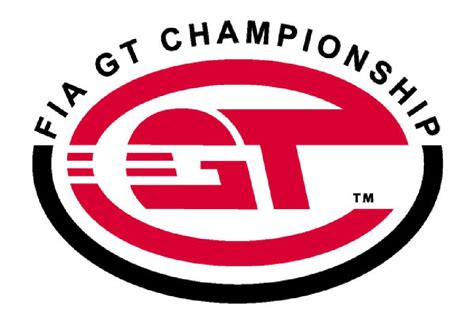
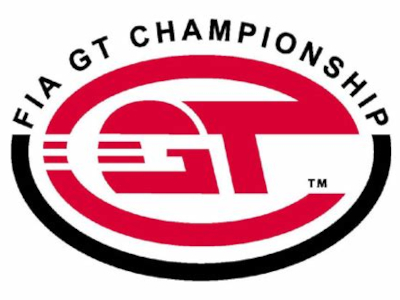
more stuff to do

diff --git a/gtr2career/html/fia_ngt_championship_round_6.html b/gtr2career/html/fia_ngt_championship_round_6.html
@@ -65,17 +65,17 @@
         <div class="catalog-logo-row">
           <img
             class="catalog-logo"
-            src="../img/organizer_180_motor_club.svg"
-            alt="180 Motor Club logo"
+            src="../img/fia_gt.jpeg"
+            alt="FIA GT logo"
           />
           <div>
-            <h2>180 Motor Club</h2>
+            <h2>FIA GT</h2>
             <p>Organizer</p>
           </div>
         </div>
         <h1>FIA N-GT Championship - Round 6: Spa-Francorchamps</h1>
         <p>
-          This activity is organized by 180 Motor Club. Review the current entry
+          This activity is organized by FIA GT. Review the current entry
           details, requirements, and payout before committing to it.
         </p>
       </aside>

diff --git a/gtr2career/html/fia_ngt_championship_round_5.html b/gtr2career/html/fia_ngt_championship_round_5.html
@@ -65,17 +65,17 @@
         <div class="catalog-logo-row">
           <img
             class="catalog-logo"
-            src="../img/organizer_180_motor_club.svg"
-            alt="180 Motor Club logo"
+            src="../img/fia_gt.jpeg"
+            alt="FIA GT logo"
           />
           <div>
-            <h2>180 Motor Club</h2>
+            <h2>FIA GT</h2>
             <p>Organizer</p>
           </div>
         </div>
         <h1>FIA N-GT Championship - Round 5: Donington Park</h1>
         <p>
-          This activity is organized by 180 Motor Club. Review the current entry
+          This activity is organized by FIA GT. Review the current entry
           details, requirements, and payout before committing to it.
         </p>
       </aside>

diff --git a/gtr2career/html/fia_ngt_championship_round_10.html b/gtr2career/html/fia_ngt_championship_round_10.html
@@ -65,17 +65,17 @@
         <div class="catalog-logo-row">
           <img
             class="catalog-logo"
-            src="../img/organizer_180_motor_club.svg"
-            alt="180 Motor Club logo"
+            src="../img/fia_gt.jpeg"
+            alt="FIA GT logo"
           />
           <div>
-            <h2>180 Motor Club</h2>
+            <h2>FIA GT</h2>
             <p>Organizer</p>
           </div>
         </div>
         <h1>FIA N-GT Championship - Round 10: Enna-Pergusa</h1>
         <p>
-          This activity is organized by 180 Motor Club. Review the current entry
+          This activity is organized by FIA GT. Review the current entry
           details, requirements, and payout before committing to it.
         </p>
       </aside>

diff --git a/gtr2career/html/fia_ngt_championship_round_2.html b/gtr2career/html/fia_ngt_championship_round_2.html
@@ -65,17 +65,17 @@
         <div class="catalog-logo-row">
           <img
             class="catalog-logo"
-            src="../img/organizer_180_motor_club.svg"
-            alt="180 Motor Club logo"
+            src="../img/fia_gt.jpeg"
+            alt="FIA GT logo"
           />
           <div>
-            <h2>180 Motor Club</h2>
+            <h2>FIA GT</h2>
             <p>Organizer</p>
           </div>
         </div>
         <h1>FIA N-GT Championship - Round 2: Magny-Cours</h1>
         <p>
-          This activity is organized by 180 Motor Club. Review the current entry
+          This activity is organized by FIA GT. Review the current entry
           details, requirements, and payout before committing to it.
         </p>
       </aside>

diff --git a/gtr2career/html/fia_ngt_championship_round_4.html b/gtr2career/html/fia_ngt_championship_round_4.html
@@ -65,17 +65,17 @@
         <div class="catalog-logo-row">
           <img
             class="catalog-logo"
-            src="../img/organizer_180_motor_club.svg"
-            alt="180 Motor Club logo"
+            src="../img/fia_gt.jpeg"
+            alt="FIA GT logo"
           />
           <div>
-            <h2>180 Motor Club</h2>
+            <h2>FIA GT</h2>
             <p>Organizer</p>
           </div>
         </div>
         <h1>FIA N-GT Championship - Round 4: Silverstone</h1>
         <p>
-          This activity is organized by 180 Motor Club. Review the current entry
+          This activity is organized by FIA GT. Review the current entry
           details, requirements, and payout before committing to it.
         </p>
       </aside>

diff --git a/gtr2career/html/fia_ngt_championship_round_3.html b/gtr2career/html/fia_ngt_championship_round_3.html
@@ -65,17 +65,17 @@
         <div class="catalog-logo-row">
           <img
             class="catalog-logo"
-            src="../img/organizer_180_motor_club.svg"
-            alt="180 Motor Club logo"
+            src="../img/fia_gt.jpeg"
+            alt="FIA GT logo"
           />
           <div>
-            <h2>180 Motor Club</h2>
+            <h2>FIA GT</h2>
             <p>Organizer</p>
           </div>
         </div>
         <h1>FIA N-GT Championship - Round 3: Hockenheim</h1>
         <p>
-          This activity is organized by 180 Motor Club. Review the current entry
+          This activity is organized by FIA GT. Review the current entry
           details, requirements, and payout before committing to it.
         </p>
       </aside>

diff --git a/gtr2career/html/fia_ngt_championship_round_8.html b/gtr2career/html/fia_ngt_championship_round_8.html
@@ -65,17 +65,17 @@
         <div class="catalog-logo-row">
           <img
             class="catalog-logo"
-            src="../img/organizer_180_motor_club.svg"
-            alt="180 Motor Club logo"
+            src="../img/fia_gt.jpeg"
+            alt="FIA GT logo"
           />
           <div>
-            <h2>180 Motor Club</h2>
+            <h2>FIA GT</h2>
             <p>Organizer</p>
           </div>
         </div>
         <h1>FIA N-GT Championship - Round 8: Anderstorp</h1>
         <p>
-          This activity is organized by 180 Motor Club. Review the current entry
+          This activity is organized by FIA GT. Review the current entry
           details, requirements, and payout before committing to it.
         </p>
       </aside>

diff --git a/gtr2career/html/fia_ngt_championship_round_9.html b/gtr2career/html/fia_ngt_championship_round_9.html
@@ -65,17 +65,17 @@
         <div class="catalog-logo-row">
           <img
             class="catalog-logo"
-            src="../img/organizer_180_motor_club.svg"
-            alt="180 Motor Club logo"
+            src="../img/fia_gt.jpeg"
+            alt="FIA GT logo"
           />
           <div>
-            <h2>180 Motor Club</h2>
+            <h2>FIA GT</h2>
             <p>Organizer</p>
           </div>
         </div>
         <h1>FIA N-GT Championship - Round 9: Barcelona</h1>
         <p>
-          This activity is organized by 180 Motor Club. Review the current entry
+          This activity is organized by FIA GT. Review the current entry
           details, requirements, and payout before committing to it.
         </p>
       </aside>

diff --git a/gtr2career/html/fia_ngt_championship_round_11.html b/gtr2career/html/fia_ngt_championship_round_11.html
@@ -65,17 +65,17 @@
         <div class="catalog-logo-row">
           <img
             class="catalog-logo"
-            src="../img/organizer_180_motor_club.svg"
-            alt="180 Motor Club logo"
+            src="../img/fia_gt.jpeg"
+            alt="FIA GT logo"
           />
           <div>
-            <h2>180 Motor Club</h2>
+            <h2>FIA GT</h2>
             <p>Organizer</p>
           </div>
         </div>
         <h1>FIA N-GT Championship - Round 11: Bahrain</h1>
         <p>
-          This activity is organized by 180 Motor Club. Review the current entry
+          This activity is organized by FIA GT. Review the current entry
           details, requirements, and payout before committing to it.
         </p>
       </aside>

diff --git a/gtr2career/html/fia_ngt_championship_round_1.html b/gtr2career/html/fia_ngt_championship_round_1.html
@@ -65,17 +65,17 @@
         <div class="catalog-logo-row">
           <img
             class="catalog-logo"
-            src="../img/organizer_180_motor_club.svg"
-            alt="180 Motor Club logo"
+            src="../img/fia_gt.jpeg"
+            alt="FIA GT logo"
           />
           <div>
-            <h2>180 Motor Club</h2>
+            <h2>FIA GT</h2>
             <p>Organizer</p>
           </div>
         </div>
         <h1>FIA N-GT Championship - Round 1: Monza</h1>
         <p>
-          This activity is organized by 180 Motor Club. Review the current entry
+          This activity is organized by FIA GT. Review the current entry
           details, requirements, and payout before committing to it.
         </p>
       </aside>

diff --git a/gtr2career/html/fia_ngt_championship_round_7.html b/gtr2career/html/fia_ngt_championship_round_7.html
@@ -65,17 +65,17 @@
         <div class="catalog-logo-row">
           <img
             class="catalog-logo"
-            src="../img/organizer_180_motor_club.svg"
-            alt="180 Motor Club logo"
+            src="../img/fia_gt.jpeg"
+            alt="FIA GT logo"
           />
           <div>
-            <h2>180 Motor Club</h2>
+            <h2>FIA GT</h2>
             <p>Organizer</p>
           </div>
         </div>
         <h1>FIA N-GT Championship - Round 7: Imola</h1>
         <p>
-          This activity is organized by 180 Motor Club. Review the current entry
+          This activity is organized by FIA GT. Review the current entry
           details, requirements, and payout before committing to it.
         </p>
       </aside>

diff --git a/gtr2career/html/fia_ngt_championship_prelude.html b/gtr2career/html/fia_ngt_championship_prelude.html
@@ -50,17 +50,17 @@
         <div class="catalog-logo-row">
           <img
             class="catalog-logo"
-            src="../img/organizer_180_motor_club.svg"
-            alt="180 Motor Club logo"
+            src="../img/fia_gt.jpeg"
+            alt="FIA GT logo"
           />
           <div>
-            <h2>180 Motor Club</h2>
+            <h2>FIA GT</h2>
             <p>Organizer</p>
           </div>
         </div>
         <h1>FIA N-GT Championship Prelude - Brno</h1>
         <p>
-          This activity is organized by 180 Motor Club. Review the current entry
+          This activity is organized by FIA GT. Review the current entry
           details, requirements, and payout before committing to it.
         </p>
       </aside>
